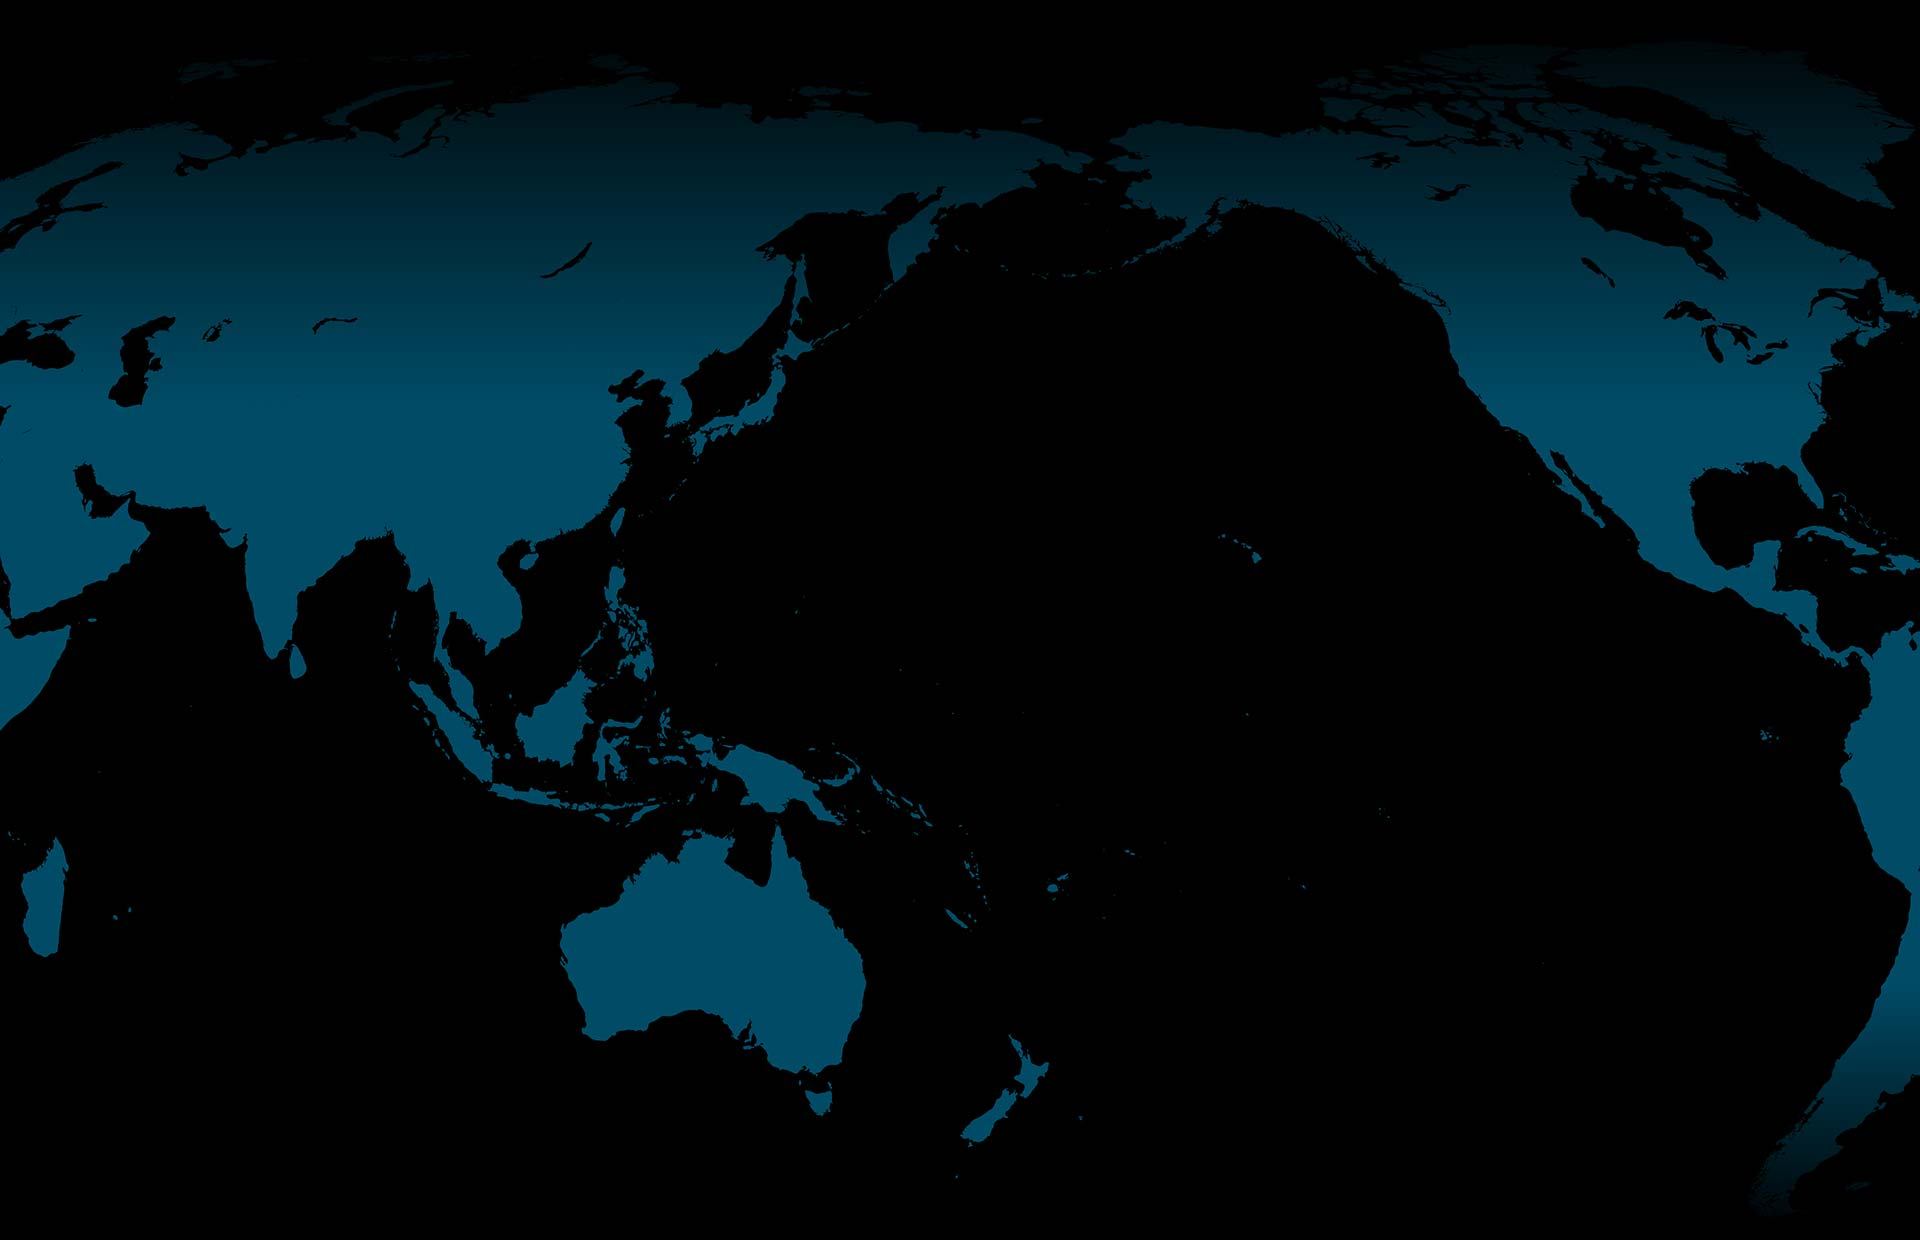
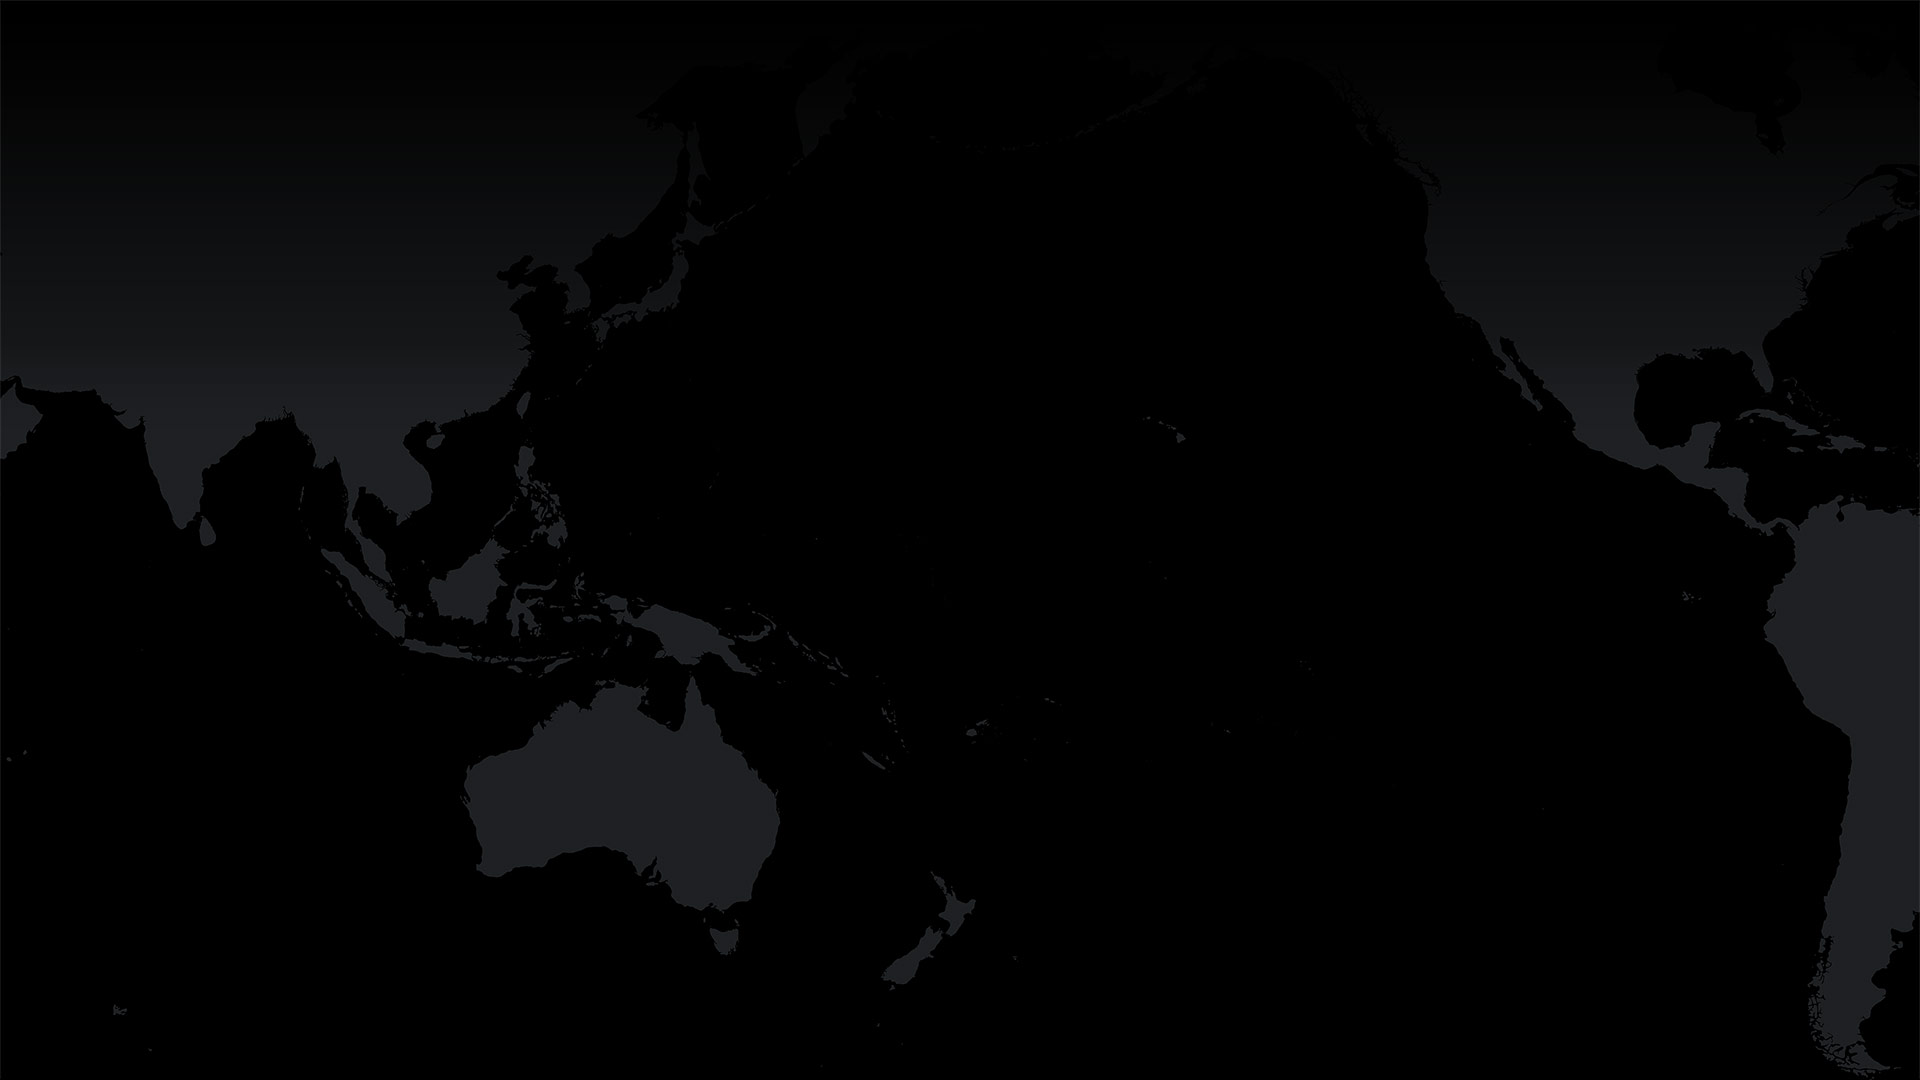
Network SVG updated
Map link needs updating too

Changed region(s): [[0.0, 0.0611, 1.0, 1.0], [0.0, 0.6722, 0.0312, 0.7639], [0.5312, 0.8556, 0.5625, 0.8861]]

diff --git a/_includes/css/style.css b/_includes/css/style.css
@@ -1322,7 +1322,7 @@ ul.no-style {
 	width: 100%;
 }
 .map text {
-	font-size: 31px;
+	font-size: 27px;
 	font-family: Poppins, sans-serif;
 	font-weight: 600;
 }
@@ -1340,9 +1340,9 @@ ul.no-style {
 }
 .map .active path,
 .map #legend line.active {
-	stroke: #00b0f0;
+	stroke: #29ade3;
 	stroke-width: 4;
-	stroke-dasharray: 15;
+	stroke-dasharray: 20;
 	stroke-dashoffset: 510;
 	animation: maplines 2s linear infinite;
 }
@@ -1355,8 +1355,8 @@ ul.no-style {
 .map #legend line.coming-soon,
 .map .transit path,
 .map #legend line.transit {
-	stroke: #00597f;
-	stroke-dasharray: 10 10;
+	stroke: #07699c;
+	stroke-dasharray: 20 20;
 }
 .map .transit path,
 .map #legend line.transit {
@@ -1364,8 +1364,7 @@ ul.no-style {
 	animation: maplines 2s linear infinite;
 }
 .map #legend rect {
-	fill: #4f94cc;
-	opacity: 0.2;
+	fill: #0e1010;
 }
 /* Abbreviations */
 abbr[title] {
